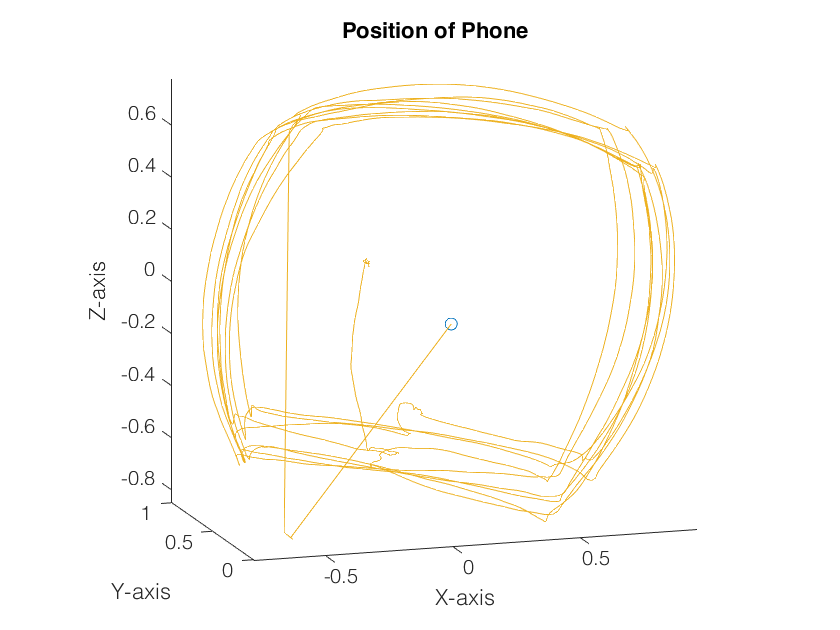
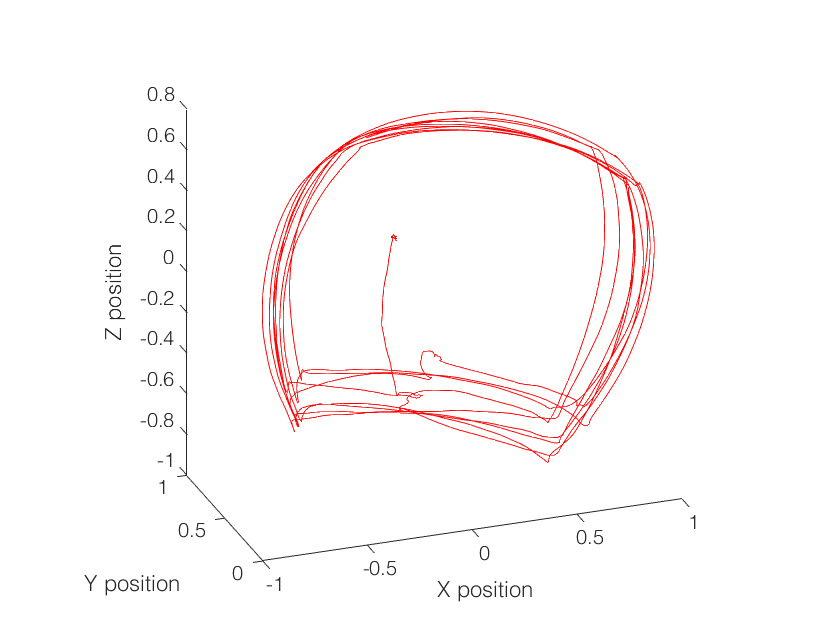
added pictures

diff --git a/Matlab/InitialTesting.m b/Matlab/InitialTesting.m
@@ -52,18 +52,17 @@ plot(timestamp1, yawsig, 'k-')
 %     R(:,:,i+1) =  -Yaw * -Pitch * -Roll;
 % end
 
-pos = zeros(length(R), 3);
+pos = zeros(length(R)-100, 3);
 
-for i = 1:length(R)-1 %-1 is jank, but whatever
+for i = 1:length(R)-100 %-1 is jank, but whatever
     pos(i,:) = R(:,:,i) * [0;1;0];
 end
 figure();
-comet3(pos(:,1), pos(:,2), pos(:,3));
+plot3(pos(:,1), pos(:,2), pos(:,3), 'r-');
 daspect([1,1,1]);
-title('Position of Phone')
-xlabel('X-axis')
-ylabel('Y-axis')
-zlabel('Z-axis')
+xlabel('X position')
+ylabel('Y position')
+zlabel('Z position')
 %%
 
 pitchintsig = InterpSig(pitchsig, Fs, play_Fs);
@@ -81,7 +80,7 @@ music = PosToFreq(pitchintsig, rollintsig, play_Fs);
 clf;
 plot(music, 'k-')
 
-%sound(music, play_Fs)
+sound(music, play_Fs)
 
 %[timestamp2, int2_sig] = DiscreteInt(timestamp1, int_sig);
 %plot(timestamp2, int2_sig, 'k-');
